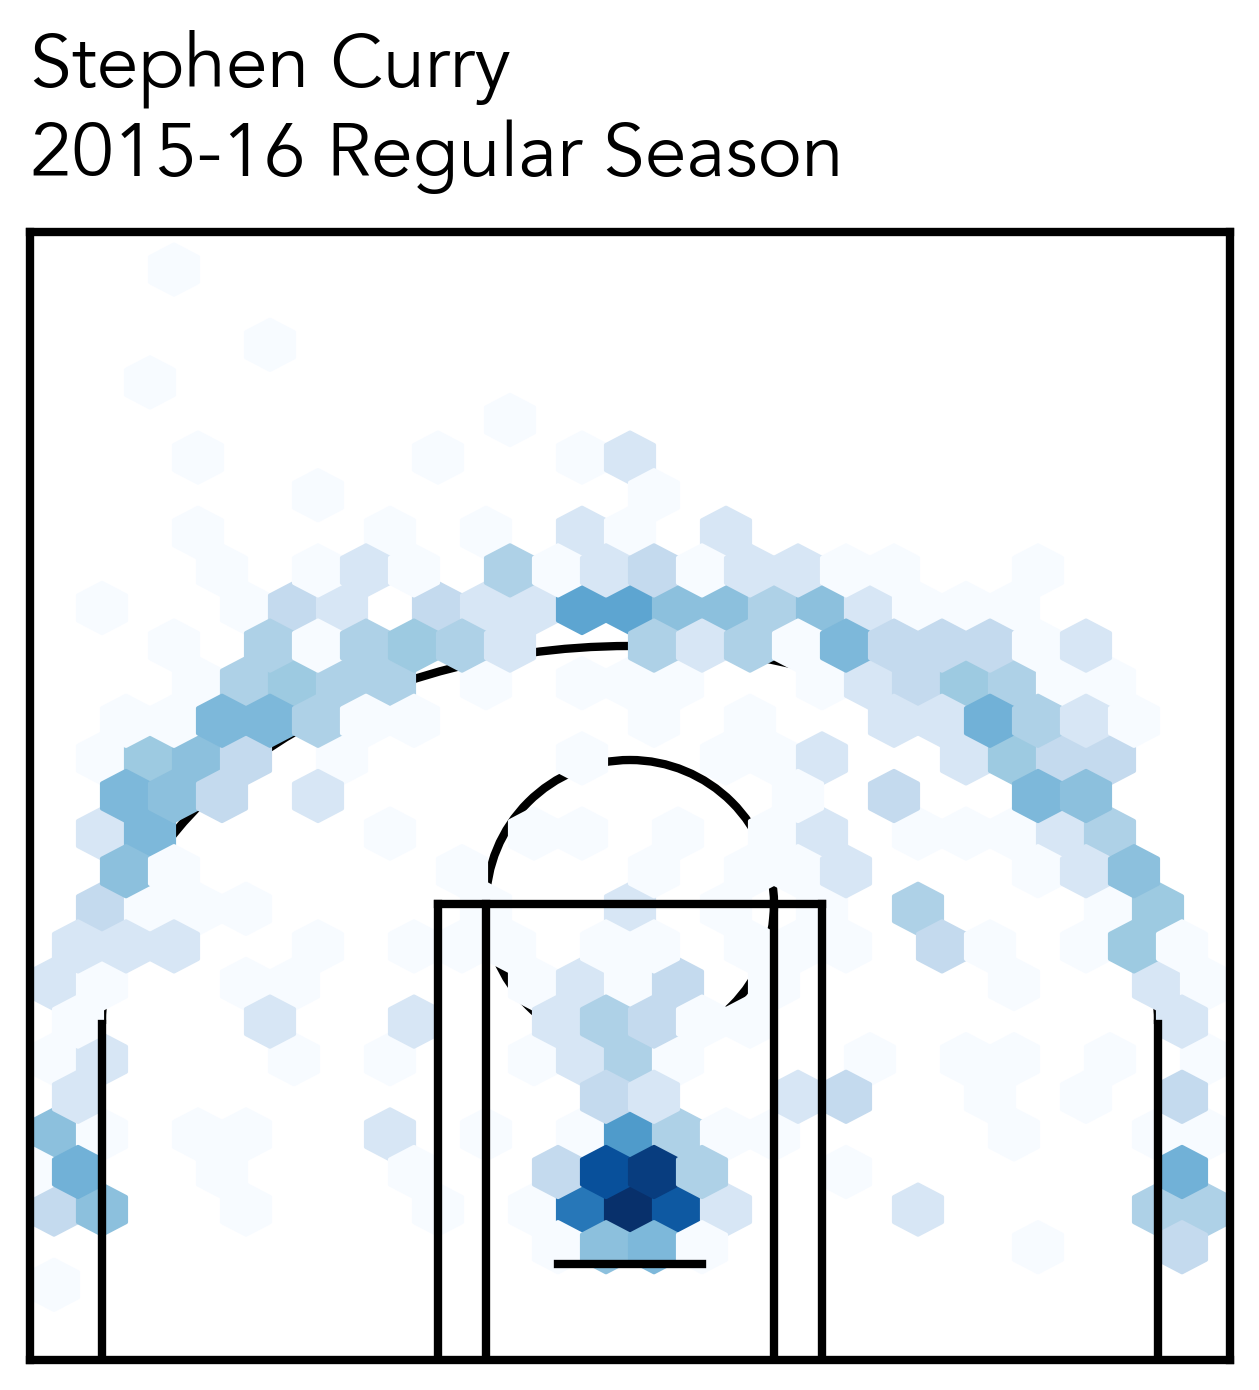
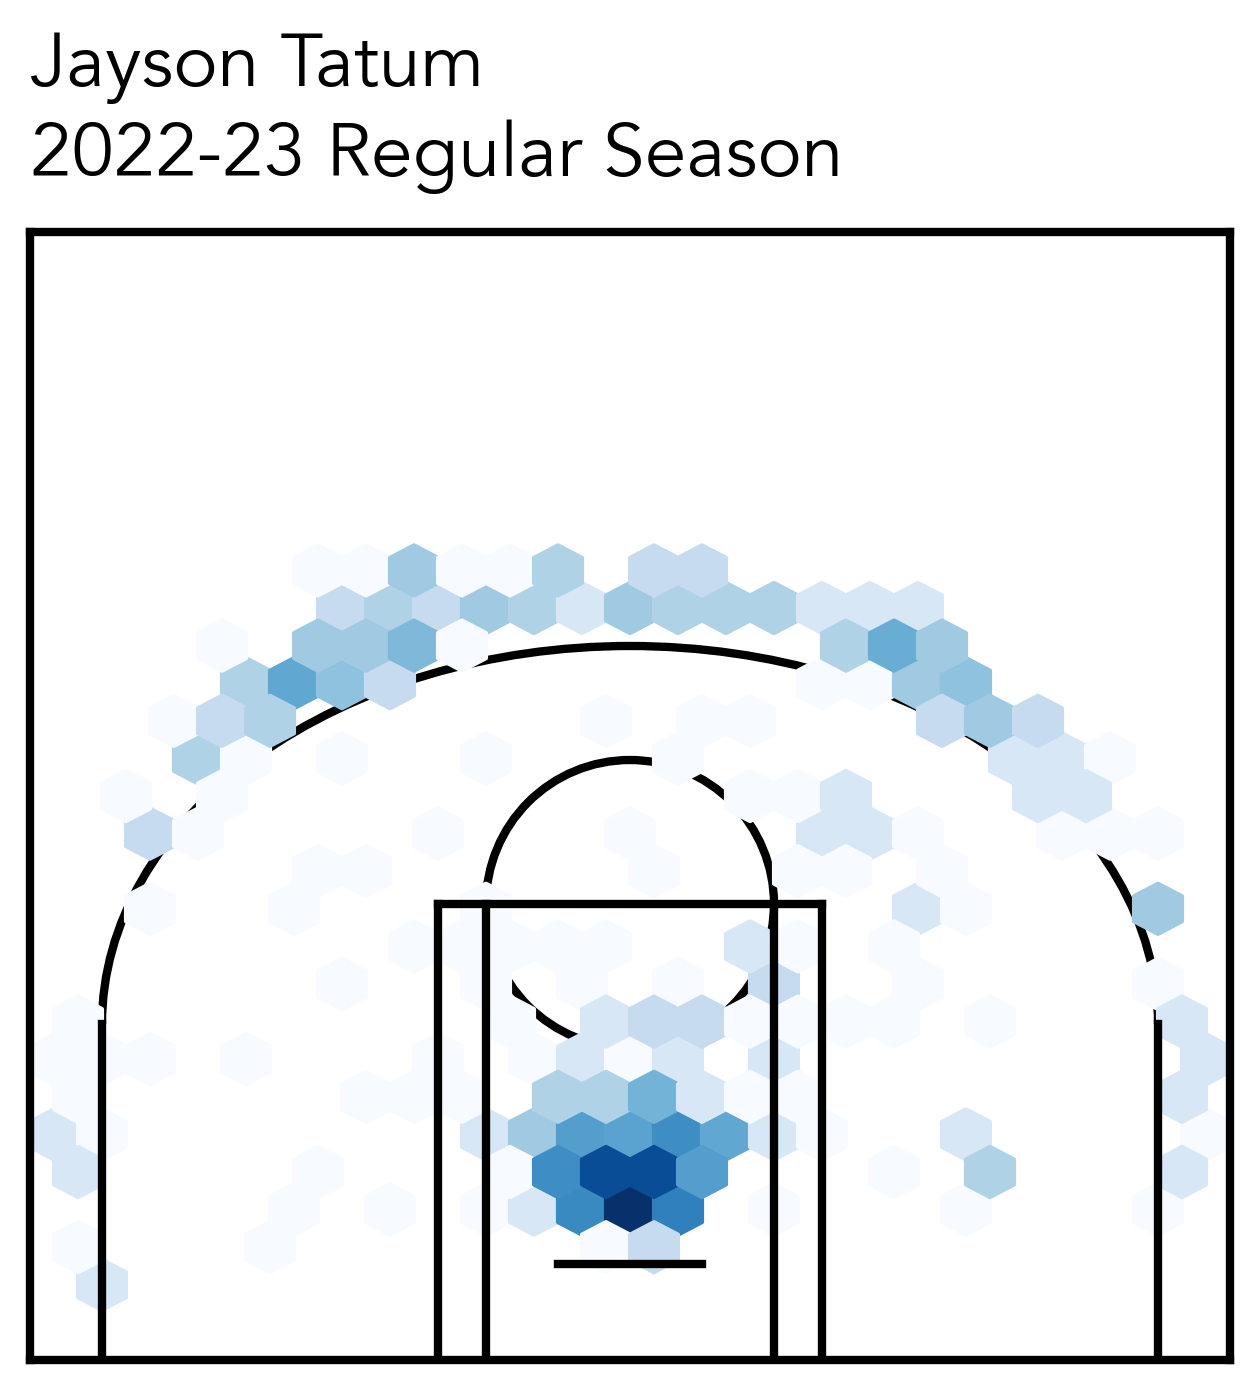
Shot chart is now created based on user input

diff --git a/Analysis/shotChart.py b/Analysis/shotChart.py
@@ -25,26 +25,6 @@ def get_player_id(first, last):
             return player['playerId']
     return -1
 
-# Create JSON request
-shot_json = shotchartdetail.ShotChartDetail(
-            team_id = get_team_id('Golden State Warriors'),
-            player_id = get_player_id('Stephen', 'Curry'),
-            context_measure_simple = 'PTS',
-            season_nullable = '2015-16',
-            season_type_all_star = 'Regular Season')
-
-# Load data into a Python dictionary
-shot_data = json.loads(shot_json.get_json())
-
-relevant_data = shot_data['resultSets'][0]
-headers = relevant_data['headers']
-rows = relevant_data['rowSet']
-
-# Create pandas DataFrame
-curry_data = pd.DataFrame(rows)
-curry_data.columns = headers
-
-
 def create_court(ax, color):
     
     # Short corner 3PT lines
@@ -79,6 +59,32 @@ def create_court(ax, color):
     return ax
 
 
+player_name = input("Enter the player's name (First and last name): ")
+team_name = input("Enter the team name ('City Team'): ")
+year = input("Enter the year (YYYY-YY): ")
+
+first,last = player_name.split()
+# Create JSON request
+shot_json = shotchartdetail.ShotChartDetail(
+            team_id = get_team_id(team_name),
+            player_id = get_player_id(first, last),
+            context_measure_simple = 'PTS',
+            season_nullable = year,
+            season_type_all_star = 'Regular Season')
+
+# Load data into a Python dictionary
+shot_data = json.loads(shot_json.get_json())
+
+relevant_data = shot_data['resultSets'][0]
+headers = relevant_data['headers']
+rows = relevant_data['rowSet']
+
+# Create pandas DataFrame
+player_data = pd.DataFrame(rows)
+player_data.columns = headers
+
+
+
 mpl.rcParams['font.family'] = 'Avenir'
 mpl.rcParams['font.size'] = 18
 mpl.rcParams['axes.linewidth'] = 2
@@ -90,10 +96,10 @@ ax = fig.add_axes([0, 0, 1, 1])
 ax = create_court(ax, 'black')
 
 # Plot hexbin of shots
-ax.hexbin(curry_data['LOC_X'], curry_data['LOC_Y'] + 60, gridsize=(30, 30), extent=(-300, 300, 0, 940), bins='log', cmap='Blues')
+ax.hexbin(player_data['LOC_X'], player_data['LOC_Y'] + 60, gridsize=(30, 30), extent=(-300, 300, 0, 940), bins='log', cmap='Blues')
 
 # Annotate player name and season
-ax.text(0, 1.05, 'Stephen Curry\n2015-16 Regular Season', transform=ax.transAxes, ha='left', va='baseline')
+ax.text(0, 1.05, f'{player_name}\n{year} Regular Season', transform=ax.transAxes, ha='left', va='baseline')
 
 # Save and show figure
 plt.savefig('ShotChart.png', dpi=300, bbox_inches='tight')
